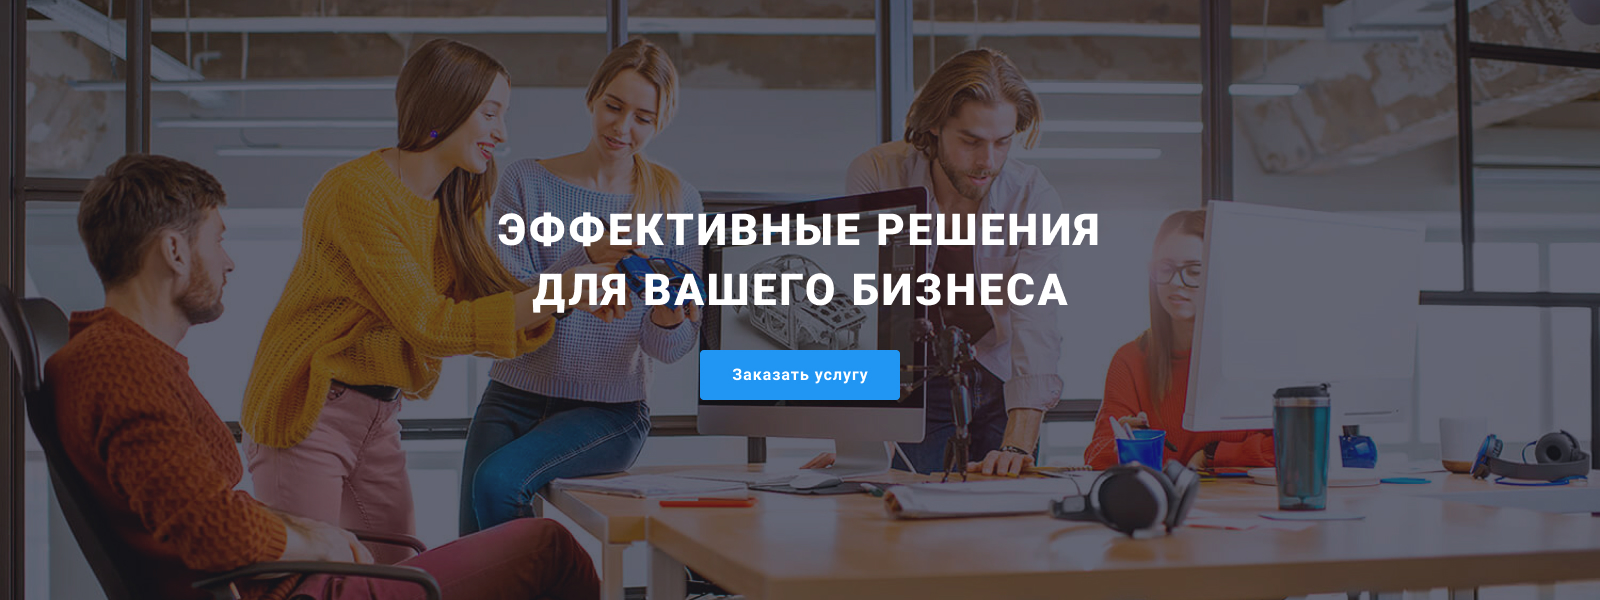
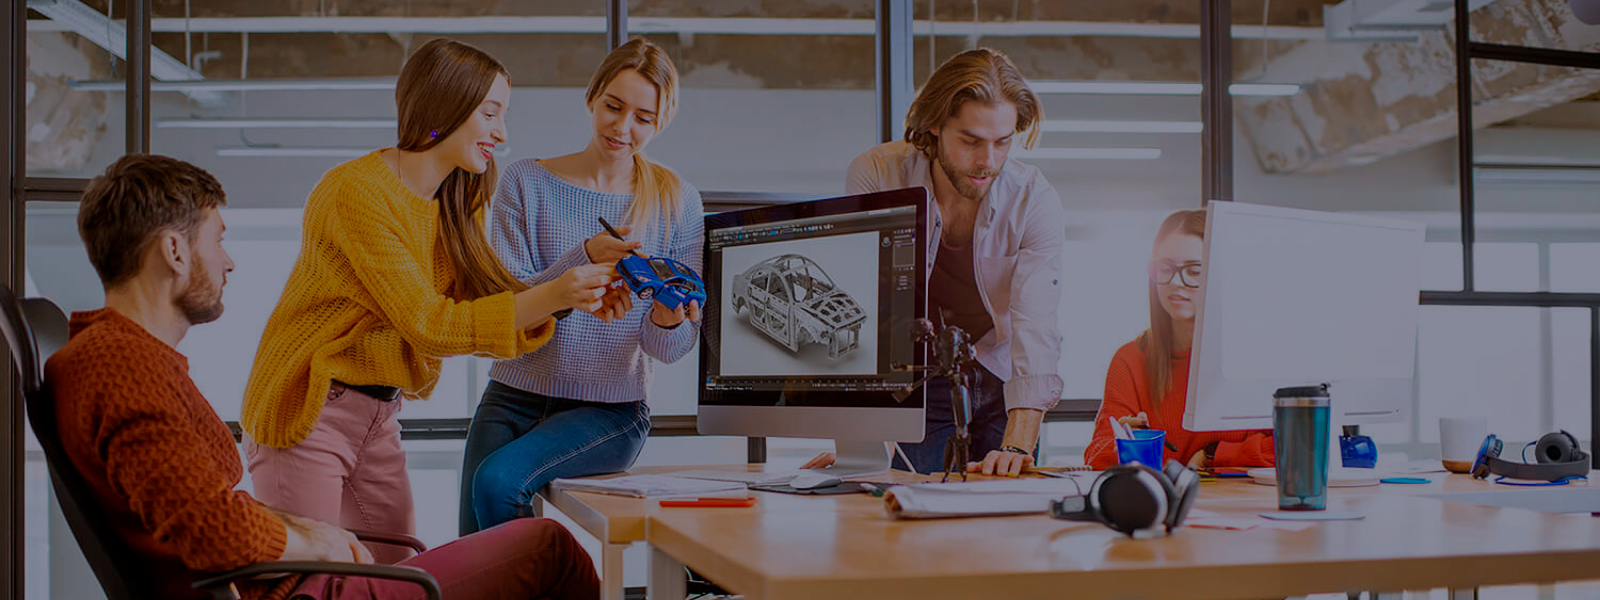
homework4 edits

diff --git a/portfolio.html b/portfolio.html
@@ -70,67 +70,66 @@
         </ul>
         <ul class="example-list list">
           <li class="example-list-item">
-            <img src="./images/project1.jpg" alt="Technoquack " width="370" />
-            <div class="example-text">
-              <h2 class="apps-title">Технокряк</h2>
-              <p class="apps-txt">Веб-сайт</p>
-            </div>
+            <a class="example-link" href="" target="_blank" rel="noopener nofollow noreferrer"><img src="./images/project1.jpg" alt="Technoquack " width="370" />
+            <div class="example-text"><h2 class="apps-title">Технокряк</h2>
+            <p class="apps-txt">Веб-сайт</p>
+            </div></a>
           </li>
           <li class="example-list-item">
-            <img src="./images/project2.jpg" alt="Poster New Orlean vs Golden Star" width="370" />
+            <a class="example-link link" href="" target="_blank" rel="noopener nofollow noreferrer"><img src="./images/project2.jpg" alt="Poster New Orlean vs Golden Star" width="370" />
             <div class="example-text">
               <h2 class="apps-title">Постер New Orlean vs Golden Star</h2>
               <p class="apps-txt">Дизайн</p>
-            </div>
+            </div></a>
           </li>
           <li class="example-list-item">
-            <img src="./images/project3.jpg" alt="Restaurant Seafood" width="370" />
+            <a class="example-link" href=""  target="_blank" rel="noopener nofollow noreferrer"><img src="./images/project3.jpg" alt="Restaurant Seafood" width="370" />
             <div class="example-text">
               <h2 class="apps-title">Ресторан Seafood</h2>
               <p class="apps-txt">Приложение</p>
-            </div>
+            </div></a>
           </li>
           <li class="example-list-item">
-            <img src="./images/project4.jpg" alt="Project Prime" width="370" />
+            <a class="example-link" href="" target="_blank" rel="noopener nofollow noreferrer"><img src="./images/project4.jpg" alt="Project Prime" width="370" />
             <div class="example-text">
               <h2 class="apps-title">Проект Prime</h2>
               <p class="apps-txt">Маркетинг</p>
-            </div>
+            </div></a>
           </li>
           <li class="example-list-item">
-            <img src="./images/project5.jpg" alt="Project Boxes" width="370" />
+            <a class="example-link" href="" target="_blank" rel="noopener nofollow noreferrer"><img src="./images/project5.jpg" alt="Project Boxes" width="370" />
             <div class="example-text">
               <h2 class="apps-title">Проект Boxes</h2>
               <p class="apps-txt">Приложение</p>
-            </div>
+            </div></a>
           </li>
           <li class="example-list-item">
-            <img src="./images/project6.jpg" alt="Inspiration has no Borders" width="370" />
+            <a class="example-link" href="" target="_blank" rel="noopener nofollow noreferrer"><img src="./images/project6.jpg" alt="Inspiration has no Borders" width="370" />
             <div class="example-text">
               <h2 class="apps-title">Inspiration has no Borders</h2>
               <p class="apps-txt">Веб-сайт</p>
-            </div>
+            </div></a>
           </li>
           <li class="example-list-item">
-            <img src="./images/project7.jpg" alt="Edition Limited Edition" width="370" />
+            <a class="example-link" href="" target="_blank" rel="noopener nofollow noreferrer"><img src="./images/project7.jpg" alt="Edition Limited Edition" width="370" />
             <div class="example-text">
               <h2 class="apps-title">Издание Limited Edition</h2>
               <p class="apps-txt">Дизайн</p>
-            </div>
+            </div></a>
           </li>
           <li class="example-list-item">
-            <img src="./images/project8.jpg" alt="Project LAB" width="370" />
+            <a class="example-link" href="" target="_blank" rel="noopener nofollow noreferrer"><img src="./images/project8.jpg" alt="Project LAB" width="370" />
             <div class="example-text">
               <h2 class="apps-title">Проект LAB</h2>
               <p class="apps-txt">Маркетинг</p>
-            </div>
+            </div></a>
           </li>
           <li class="example-list-item">
-            <img src="./images/project9.jpg" alt="Growing Business" width="370" />
+            <a class="example-link" href="" target="_blank" rel="noopener nofollow noreferrer"><img src="./images/project9.jpg" alt="Growing Business" width="370" />
             <div class="example-text">
               <h2 class="apps-title">Growing Business</h2>
               <p class="apps-txt">Приложение</p>
-            </div>
+            </div></a>
           </li>
         </ul>
       </div>
@@ -138,7 +137,7 @@
   </main>
   <!--Footer-->
   <footer class="footer">
-    <div class="d-flex flex-baseline container">
+    <div class="container">
       <div class="footer-nav">
         <a class="logo-footer link" href="./index.html">Web<span class="logo-light">Studio</span></a>
         <address>

diff --git a/css/styles.css b/css/styles.css
@@ -34,20 +34,12 @@ body {
 }
 
 .container {
-    width: 1200px;
+    width: 1200px;  
     padding-left: 15px;
     padding-right: 15px;
     margin: 0;
     margin-left: auto;
     margin-right: auto;
-}
-
-.d-flex {
-    display: flex;
-}
-
-.flex-baseline {
-    align-items: baseline;
 }
 
 .title {
@@ -170,6 +162,8 @@ body {
     font-weight: 500;
     font-size: 14px;
     line-height: 1.14;
+    display: flex;
+    align-items: center;
     letter-spacing: 0.02em;
     color: var(--grey-color);
     ;
@@ -194,7 +188,11 @@ body {
     padding-bottom: 200px;
     background-color: var(--secondary-color);
     background-image: linear-gradient(to right, rgba(47, 48, 58, 0.4), rgba(47, 48, 58, 0.4)), url(../images/banner-bg.jpg);
-    width: 1600px;
+    max-width: 1600px;
+    height: 600px;
+    background-repeat: no-repeat;
+    background-position: center;
+    background-size: cover;
     margin-left: auto;
     margin-right: auto;
 }
@@ -360,12 +358,11 @@ body {
     fill: var(--grey-color);
     background-color: var(--white-color);
     border-radius: 50%;
-    
 }
 
 .social-media-link:hover,
 .social-media-link:focus {
-    fill:var(--white-color);
+    fill: currentColor;
     background-color: var(--primary-color);
 }
 
@@ -395,7 +392,7 @@ body {
 
 .clients-link:focus,
 .clients-link:hover {
-    border: 1px solid var(--primary-color);
+    border-color: var(--primary-color);
     fill: var(--primary-color);
 }
 
@@ -406,6 +403,11 @@ body {
     padding-top: 60px;
     padding-bottom: 60px;
     background-color: var(--secondary-color);
+}
+
+.footer .container {
+    display: flex;
+    align-items: baseline;
 }
 
 .footer-nav {
@@ -537,16 +539,18 @@ body {
     margin: calc(-1 * 30px / 3);
 }
 
-.example-list-item:hover {
-    box-shadow: 0px 3px 1px rgba(0, 0, 0, 0.1), 0px 1px 2px rgba(0, 0, 0, 0.08),
-            0px 2px 2px rgba(0, 0, 0, 0.12);
-}
-
 .example-list-item {
     width: 370px;
     flex-basis: calc((100% - 30px * 3) / 3);
     margin: calc(30px / 2);
 }
+
+.example-link:hover,
+.example-link:focus {
+    display: block;
+    box-shadow: 0px 1px 1px rgba(0, 0, 0, 0.12), 0px 4px 4px rgba(0, 0, 0, 0.06), 1px 4px 6px rgba(0, 0, 0, 0.16);
+}
+
 
 .example-text {
     border: 1px solid #EEEEEE;

diff --git a/index.html b/index.html
@@ -321,7 +321,7 @@
   </main>
   <!--Footer-->
   <footer class="footer">
-    <div class="d-flex flex-baseline container">
+    <div class="container">
       <div class="footer-nav">
         <a class="logo-footer link" href="./index.html">Web<span class="logo-light">Studio</span></a>
         <address>
